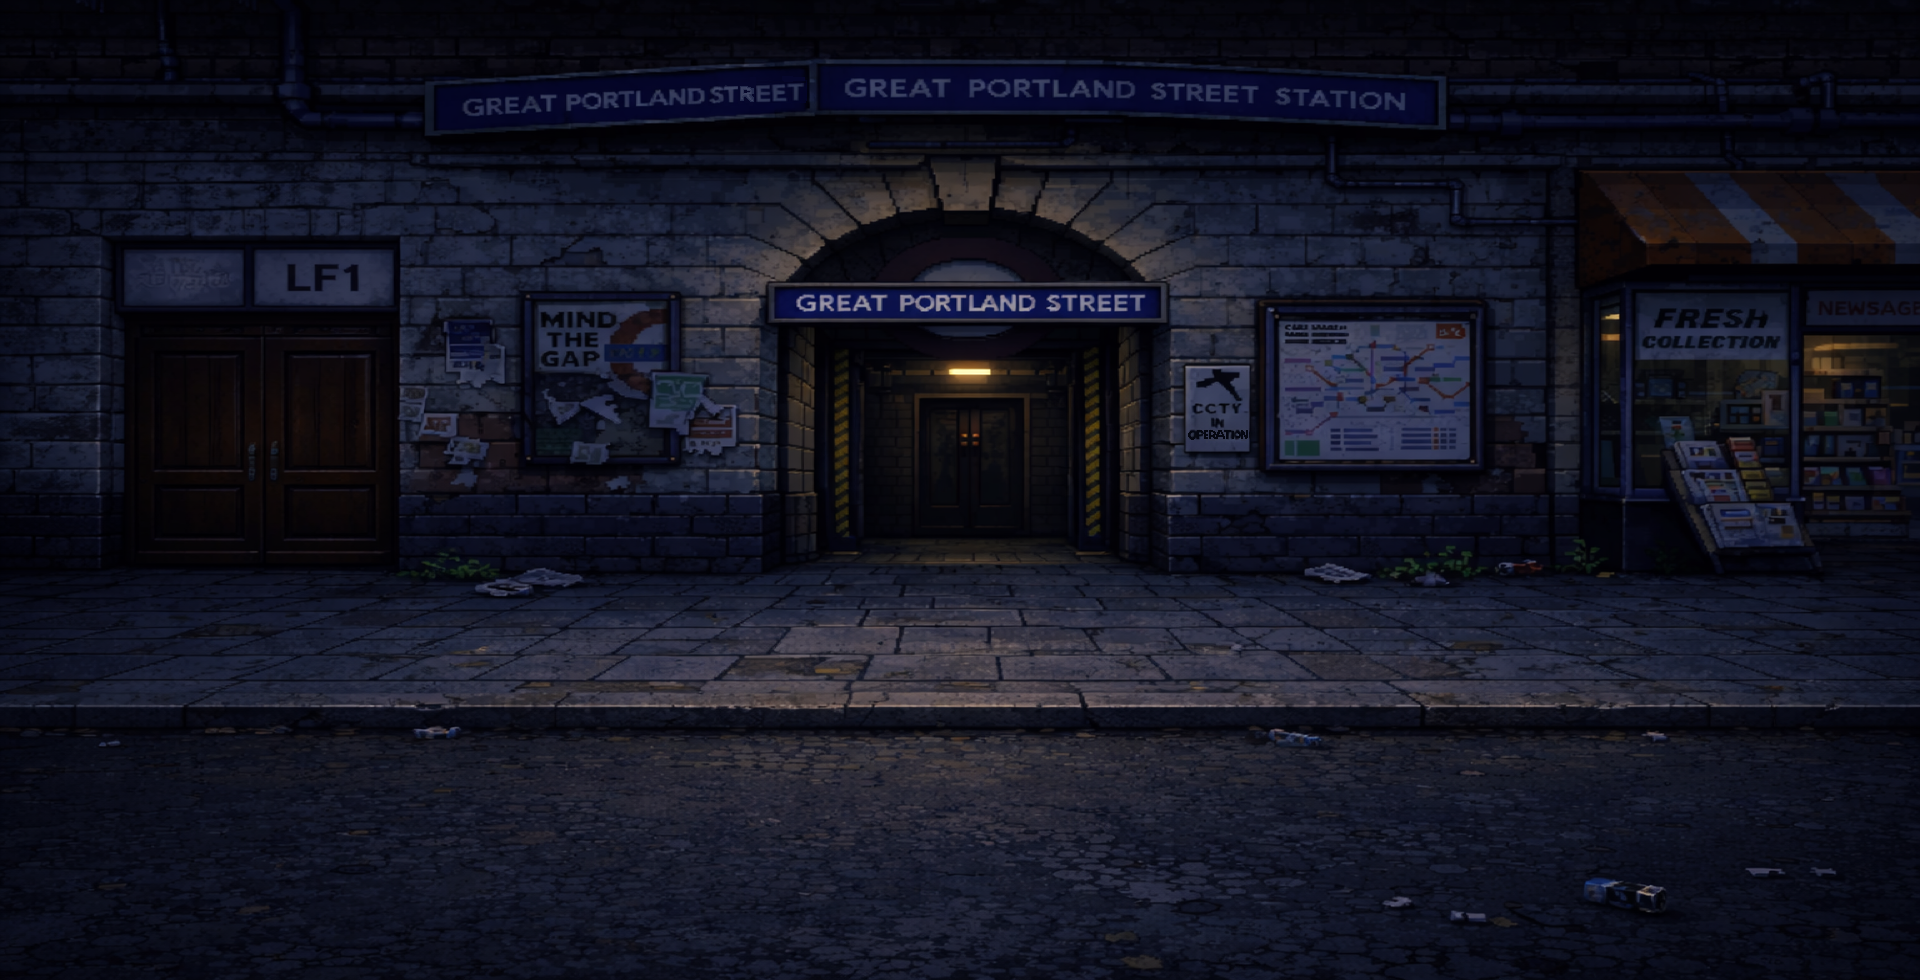
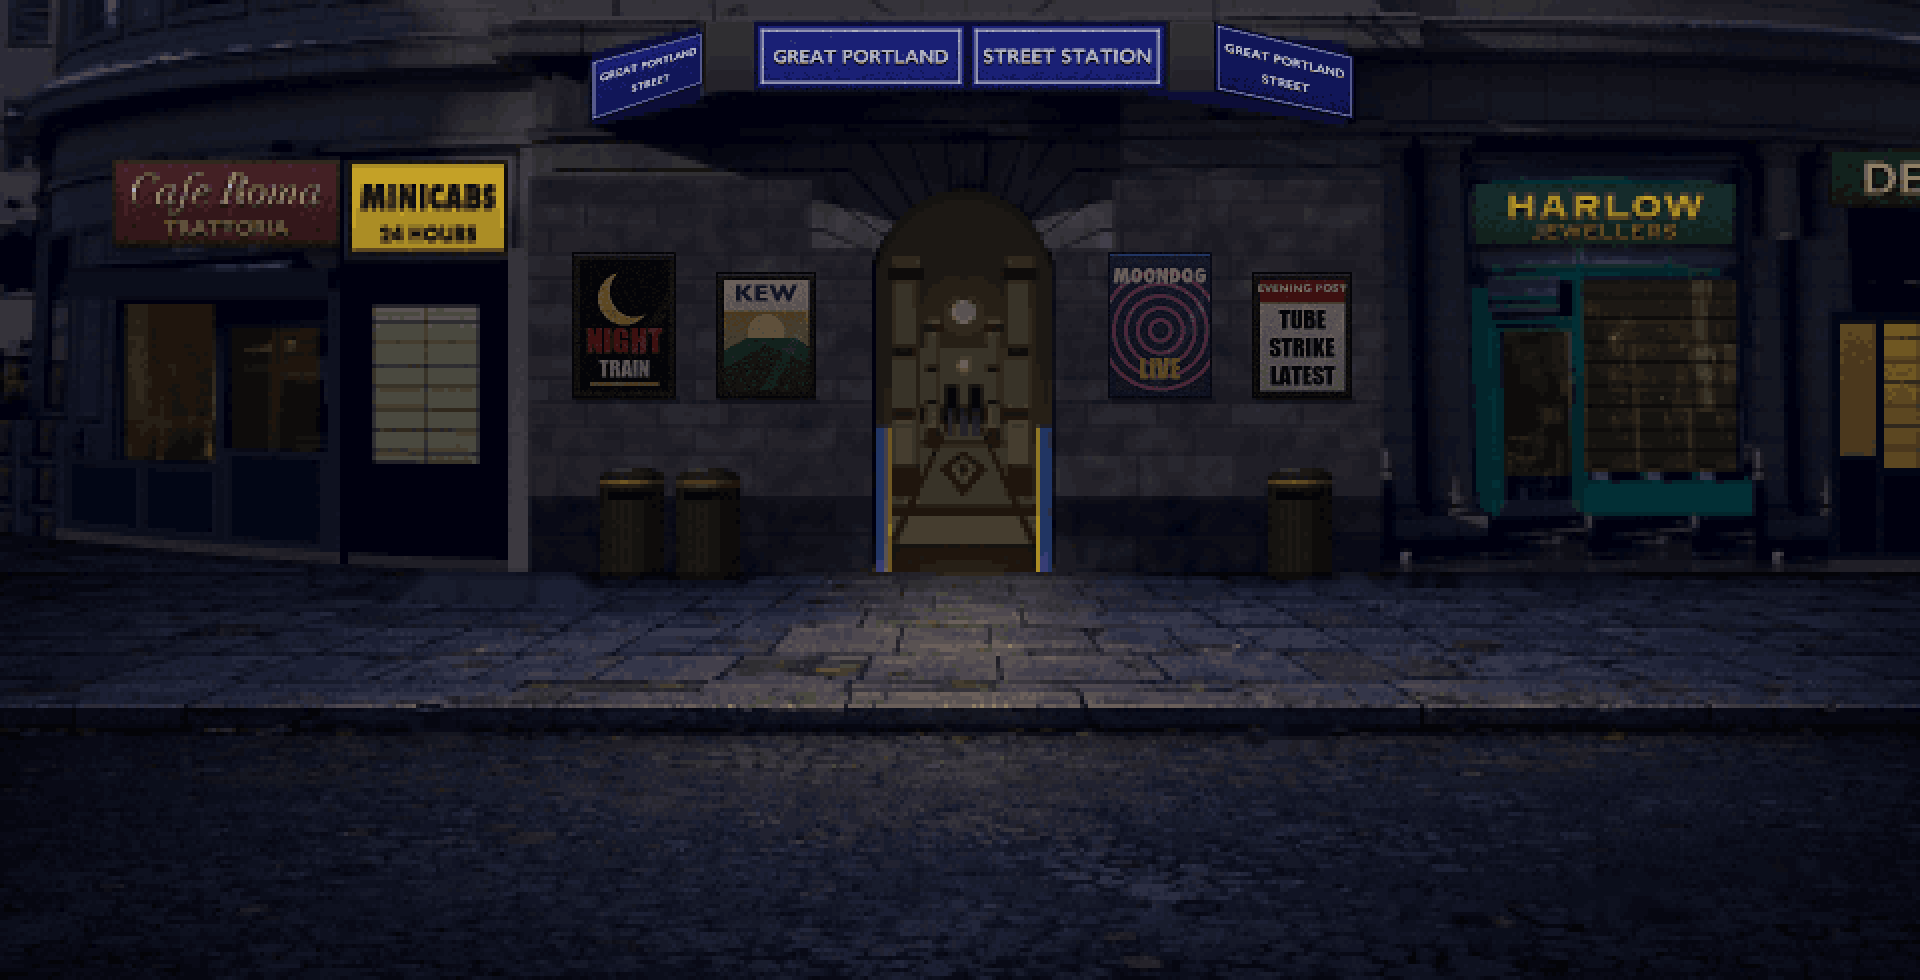
Night-time station exterior and two-way traffic
Redraw the Great Portland Street exterior from a photo of the real station: a night-graded,
pixelated frontage with the three-sided canopy sign, the open entrance onto the lit ticket hall,
framed posters, litter bins and invented shop names. Traffic now runs both ways and keeps to the
left: cars heading right use the lane by the pavement, cars heading left the nearer lane, each
playing its own passing sound.

diff --git a/src/features/scenes/greatPortlandStreetExterior/components/DrivingCar.jsx b/src/features/scenes/greatPortlandStreetExterior/components/DrivingCar.jsx
@@ -1,56 +1,45 @@
-import { useEffect, useRef } from "react";
+import { useEffect, useRef, useState } from "react";
 import carSpritesheet from "../../../../assets/images/objects/car-spritesheet.png";
 import carPassingSfx from "../../../../assets/sfx/car-passing.wav";
 import "./DrivingCar.scss";
 import { playSound, pauseSound } from "../../../../shared/utils/gameAudio";
+import { carColors } from "../data/greatPortlandStreetExteriorTraffic";
 
-const carColors = [
-  "brightness(0.2)", // black
-  "brightness(0.4) saturate(1.5) hue-rotate(0deg)", // dark blue (original)
-  "brightness(0.5) sepia(0.4) saturate(2) hue-rotate(320deg)", // dark red
-  "brightness(0.6) saturate(0)", // silver
-  "brightness(0.6) saturate(0)", // dark silver
-];
+const randomColor = () => carColors[Math.floor(Math.random() * carColors.length)];
 
-const DrivingCar = () => {
-  const carRef = useRef(null);
+// One lane of traffic: a car crosses once per `duration` seconds, after an initial `delay`.
+// The sprite faces left; cars heading right are mirrored.
+const DrivingCar = ({ direction = "left", lane = "near", duration = 12, delay = 0, volume = 1 }) => {
+  const audioRef = useRef(null);
+  const [color, setColor] = useState(randomColor);
 
   useEffect(() => {
     const carAudio = new Audio(carPassingSfx);
-
-    const randomizeCarColor = () => {
-      if (carRef.current) {
-        const color = carColors[Math.floor(Math.random() * carColors.length)];
-        carRef.current.style.filter = color;
-      }
-    };
-
-    const playCarSound = () => {
-      carAudio.currentTime = 0;
-      playSound(carAudio).catch(() => {});
-    };
-
-    randomizeCarColor();
-    playCarSound();
-
-    const soundInterval = setInterval(playCarSound, 12000);
-    const colorTimeout = setTimeout(() => {
-      randomizeCarColor();
-      colorInterval = setInterval(randomizeCarColor, 12000);
-    }, 4000);
-    let colorInterval;
-
+    carAudio.volume = volume;
+    audioRef.current = carAudio;
     return () => {
-      clearInterval(soundInterval);
-      clearTimeout(colorTimeout);
-      clearInterval(colorInterval);
       pauseSound(carAudio);
       carAudio.currentTime = 0;
     };
-  }, []);
+  }, [volume]);
+
+  // Each loop starts with the car off screen: give it a new colour and play its sound as it sets off
+  const setOff = (event) => {
+    if (event.target !== event.currentTarget) return; // the wheels' own animation
+    setColor(randomColor());
+    const carAudio = audioRef.current;
+    if (!carAudio) return;
+    carAudio.currentTime = 0;
+    playSound(carAudio).catch(() => {});
+  };
 
   return (
-    <div ref={carRef} className="driving-car">
+    <div
+      className={`driving-car driving-car--${lane} driving-car--${direction}`}
+      style={{ filter: color, "--car-duration": `${duration}s`, "--car-delay": `${delay}s` }}
+      onAnimationStart={setOff}
+      onAnimationIteration={setOff}
+    >
       <img
         className="driving-car-sprite"
         src={carSpritesheet}

diff --git a/src/features/scenes/greatPortlandStreetExterior/components/DrivingCar.test.jsx b/src/features/scenes/greatPortlandStreetExterior/components/DrivingCar.test.jsx
@@ -1,0 +1,67 @@
+import { render, fireEvent } from '@testing-library/react';
+import DrivingCar from './DrivingCar';
+import { carColors } from '../data/greatPortlandStreetExteriorTraffic';
+import { playSound, pauseSound } from '../../../../shared/utils/gameAudio';
+
+vi.mock('../../../../shared/utils/gameAudio', () => ({
+  playSound: vi.fn(() => Promise.resolve()),
+  pauseSound: vi.fn(),
+}));
+
+const car = (container) => container.querySelector('.driving-car');
+
+// jsdom has no AnimationEvent, so React listens for the webkit-prefixed names there; fire both
+const animationEvent = (element, name) => {
+  fireEvent(element, new Event(name.toLowerCase(), { bubbles: true }));
+  fireEvent(element, new Event(`webkit${name}`, { bubbles: true }));
+};
+const setsOff = (element) => animationEvent(element, 'AnimationStart');
+const loops = (element) => animationEvent(element, 'AnimationIteration');
+
+describe('DrivingCar', () => {
+  beforeEach(() => {
+    vi.clearAllMocks();
+  });
+
+  it('drives left in the near lane by default', () => {
+    const { container } = render(<DrivingCar />);
+    expect(car(container)).toHaveClass('driving-car--near', 'driving-car--left');
+  });
+
+  it('drives right in the far lane, on its own timing', () => {
+    const { container } = render(<DrivingCar direction="right" lane="far" duration={14} delay={6} />);
+    expect(car(container)).toHaveClass('driving-car--far', 'driving-car--right');
+    expect(car(container).style.getPropertyValue('--car-duration')).toBe('14s');
+    expect(car(container).style.getPropertyValue('--car-delay')).toBe('6s');
+  });
+
+  it('plays the passing sound each time it sets off', () => {
+    const { container } = render(<DrivingCar volume={0.7} />);
+    setsOff(car(container));
+    loops(car(container));
+    expect(playSound).toHaveBeenCalledTimes(2);
+    expect(playSound.mock.calls[0][0].volume).toBe(0.7);
+  });
+
+  it("ignores the wheels' animation", () => {
+    const { container } = render(<DrivingCar />);
+    loops(container.querySelector('.driving-car-sprite'));
+    expect(playSound).not.toHaveBeenCalled();
+  });
+
+  it('gets a new colour each time it sets off', () => {
+    const random = vi.spyOn(Math, 'random').mockReturnValue(0);
+    const { container } = render(<DrivingCar />);
+    expect(car(container).style.filter).toBe(carColors[0]);
+    random.mockReturnValue(0.99);
+    loops(car(container));
+    expect(car(container).style.filter).toBe(carColors[carColors.length - 1]);
+    random.mockRestore();
+  });
+
+  it('stops its sound when the scene closes', () => {
+    const { unmount } = render(<DrivingCar />);
+    unmount();
+    expect(pauseSound).toHaveBeenCalled();
+  });
+});

diff --git a/src/features/scenes/greatPortlandStreetExterior/components/DrivingCar.scss b/src/features/scenes/greatPortlandStreetExterior/components/DrivingCar.scss
@@ -1,29 +1,46 @@
 .driving-car {
+  --car-scale: 1;
   position: absolute;
-  bottom: -7rem;
   pointer-events: none;
   z-index: 3;
-  width: 1276px;
-  height: 851px;
+  width: calc(1276px * var(--car-scale));
+  height: calc(851px * var(--car-scale));
   overflow: hidden;
   left: 110%;
-  animation: driveCar 12s linear infinite;
+  animation: driveCarLeft var(--car-duration, 12s) linear var(--car-delay, 0s) infinite;
+
+  // nearer the viewer: heading left
+  &--near {
+    bottom: -12.5rem;
+  }
+
+  // by the station's pavement: heading right, a little further away
+  &--far {
+    --car-scale: 0.85;
+    bottom: -1rem;
+  }
+
+  &--right {
+    left: -100%;
+    animation-name: driveCarRight;
+    transform: scaleX(-1);
+  }
 }
 
 .driving-car-sprite {
-  width: 5103px;
-  height: 851px;
+  width: calc(5103px * var(--car-scale));
+  height: calc(851px * var(--car-scale));
   image-rendering: pixelated;
   animation: carSpriteAnimate 400ms steps(4) infinite;
 }
 
 @keyframes carSpriteAnimate {
   100% {
-    transform: translateX(-5103px);
+    transform: translateX(calc(-5103px * var(--car-scale)));
   }
 }
 
-@keyframes driveCar {
+@keyframes driveCarLeft {
   0% {
     left: 110%;
   }
@@ -33,5 +50,18 @@
   25.01%,
   100% {
     left: 110%;
+  }
+}
+
+@keyframes driveCarRight {
+  0% {
+    left: -100%;
+  }
+  25% {
+    left: 110%;
+  }
+  25.01%,
+  100% {
+    left: -100%;
   }
 }

diff --git a/e2e/traffic.spec.js b/e2e/traffic.spec.js
@@ -1,0 +1,29 @@
+import { test, expect, seedSave, barrierReleasedSave } from './fixtures.js';
+
+test('traffic keeps to the left in both directions, and every car is heard', async ({ page }) => {
+  await page.addInitScript(() => {
+    window.__carSounds = new Set();
+    const play = HTMLMediaElement.prototype.play;
+    HTMLMediaElement.prototype.play = function () {
+      if (this.src.includes('car-passing')) window.__carSounds.add(this);
+      return play.call(this);
+    };
+  });
+  await seedSave(page, barrierReleasedSave);
+  await page.goto('/great-portland-street-exterior');
+
+  const far = page.locator('.driving-car--far');
+  const near = page.locator('.driving-car--near');
+  await expect(far).toHaveClass(/driving-car--right/);
+  await expect(near).toHaveClass(/driving-car--left/);
+
+  // the lane heading right runs by the pavement, above the lane heading left
+  const bottom = async (car) => {
+    const box = await car.boundingBox();
+    return box.y + box.height;
+  };
+  expect(await bottom(far)).toBeLessThan(await bottom(near));
+
+  // the westbound car sets off straight away, the eastbound one after its delay: each plays its own sound
+  await expect.poll(() => page.evaluate(() => window.__carSounds.size), { timeout: 10_000 }).toBe(2);
+});

diff --git a/src/features/scenes/greatPortlandStreetExterior/pages/GreatPortlandStreetExterior.jsx b/src/features/scenes/greatPortlandStreetExterior/pages/GreatPortlandStreetExterior.jsx
@@ -6,6 +6,7 @@ import Frank from "../../../player/components/Frank";
 import NavigationItem from "../../../../shared/components/NavigationItem";
 import DrivingCar from "../components/DrivingCar";
 import RainOverlay from "../components/RainOverlay";
+import { trafficLanes } from "../data/greatPortlandStreetExteriorTraffic";
 import useMusic from "../../../../shared/hooks/useMusic";
 import GreatPortlandStreetExteriorImage from "../../../../assets/images/backgrounds/great-portland-street-exterior.png";
 import rainAudio from "../../../../assets/music/rain-exterior.wav";
@@ -48,7 +49,9 @@ function GreatPortlandStreetExterior() {
           scale={0.65}
           startPosition={{ x: "44.5%", y: "12rem" }}
         />
-        <DrivingCar />
+        {trafficLanes.map(({ id, ...lane }) => (
+          <DrivingCar key={id} {...lane} />
+        ))}
         {navItems.map((nav) => (
           <NavigationItem
             key={nav.id}

diff --git a/src/features/scenes/greatPortlandStreetExterior/data/greatPortlandStreetExteriorTraffic.js b/src/features/scenes/greatPortlandStreetExterior/data/greatPortlandStreetExteriorTraffic.js
@@ -1,0 +1,14 @@
+export const carColors = [
+  "brightness(0.2)", // black
+  "brightness(0.4) saturate(1.5) hue-rotate(0deg)", // dark blue (original)
+  "brightness(0.5) sepia(0.4) saturate(2) hue-rotate(320deg)", // dark red
+  "brightness(0.6) saturate(0)", // silver
+  "brightness(0.6) saturate(0)", // dark silver
+];
+
+// Traffic keeps to the left: cars heading right use the lane by the station's pavement,
+// cars heading left the lane nearer the viewer. Durations differ so the two lanes drift in and out of step.
+export const trafficLanes = [
+  { id: "eastbound", direction: "right", lane: "far", duration: 14, delay: 6, volume: 0.7 },
+  { id: "westbound", direction: "left", lane: "near", duration: 12, delay: 0, volume: 1 },
+];

diff --git a/src/features/scenes/greatPortlandStreetTicketHall/components/StreetDoorway.scss b/src/features/scenes/greatPortlandStreetTicketHall/components/StreetDoorway.scss
@@ -2,7 +2,7 @@
   position: absolute;
   overflow: hidden;
   background-color: #0b1020;
-  // The newsagent's lit window from the street scene, scaled down to fit the doorway
+  // The jeweller's lit window from the street scene, scaled down to fit the doorway
   background-size: 572px 292px;
   background-position: -440px -75px;
   background-repeat: no-repeat;

diff --git a/README.md b/README.md
@@ -41,7 +41,7 @@ src/
     scenes/
       splash/                          # Title / start screen
       beginnings/                      # Intro scene
-      greatPortlandStreetExterior/     # Street scene (rain, driving car)
+      greatPortlandStreetExterior/     # Street scene (rain, two-way traffic)
       greatPortlandStreetUnderground/  # Underground station platform
       greatPortlandStreetTicketHall/   # Ticket hall (Derek, animated ticket gate, rainy street through the doorway)
       testArea/                        # Dev sandbox
